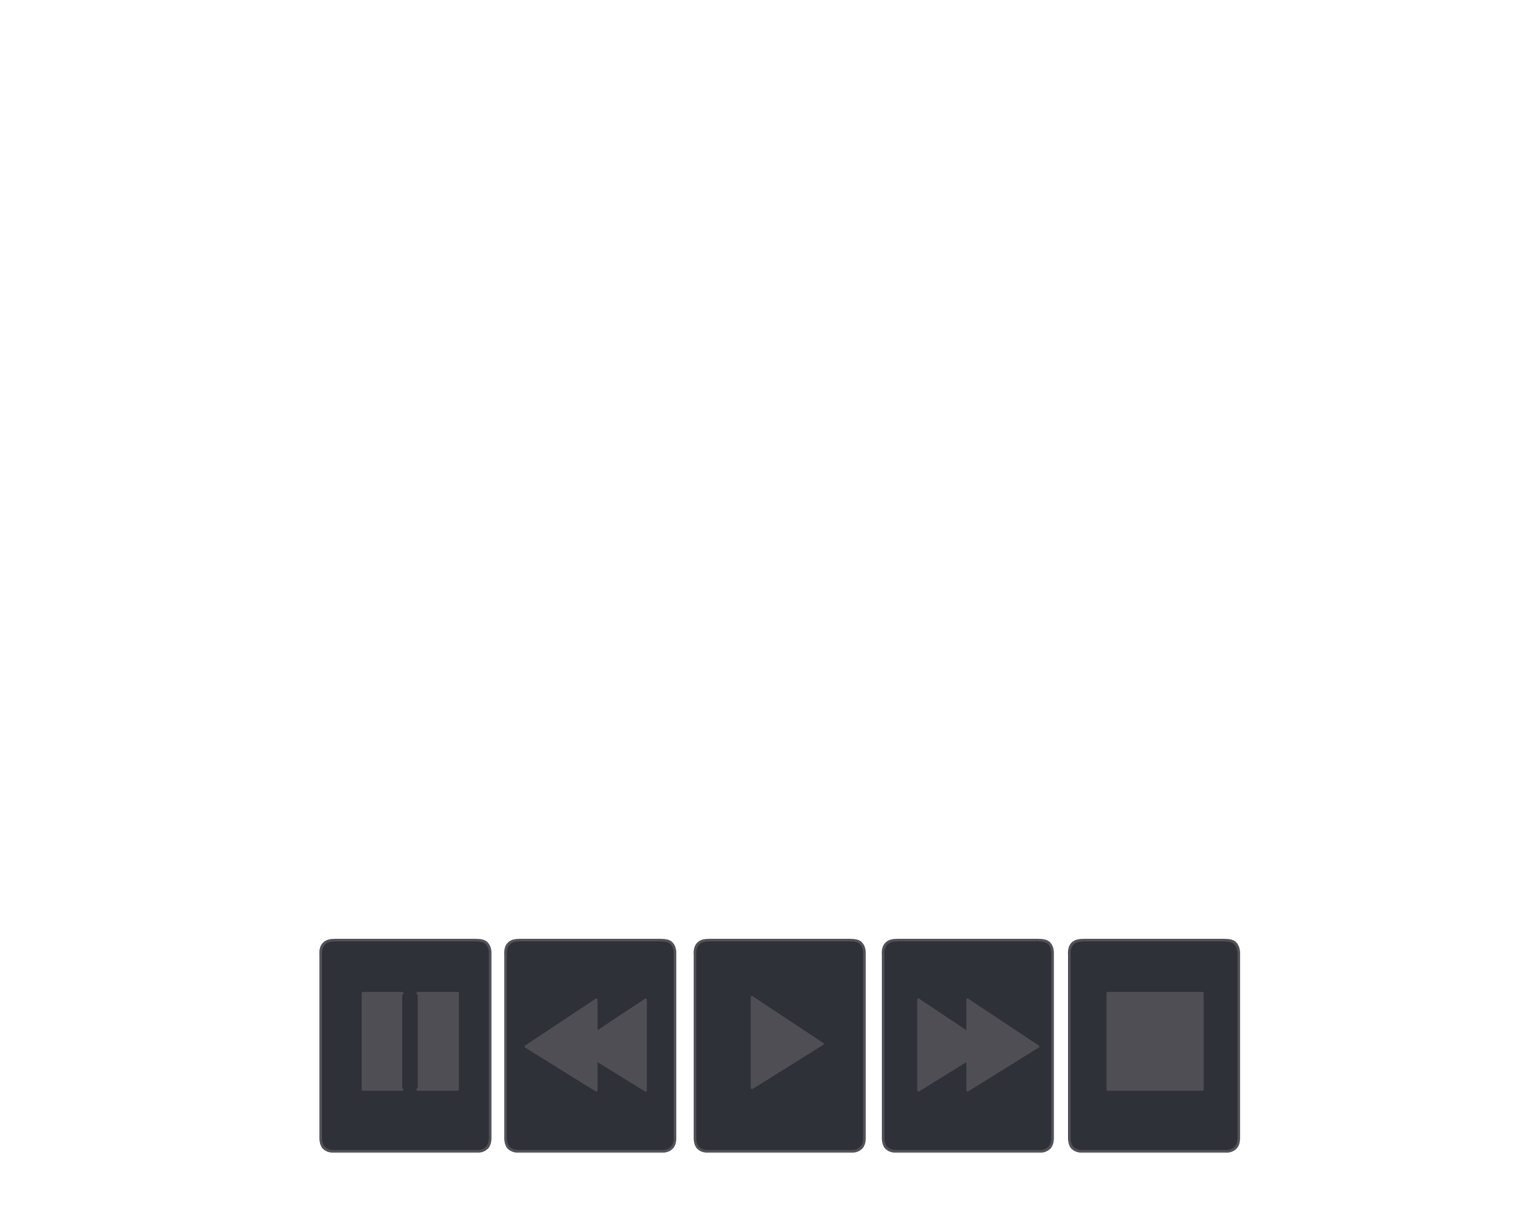
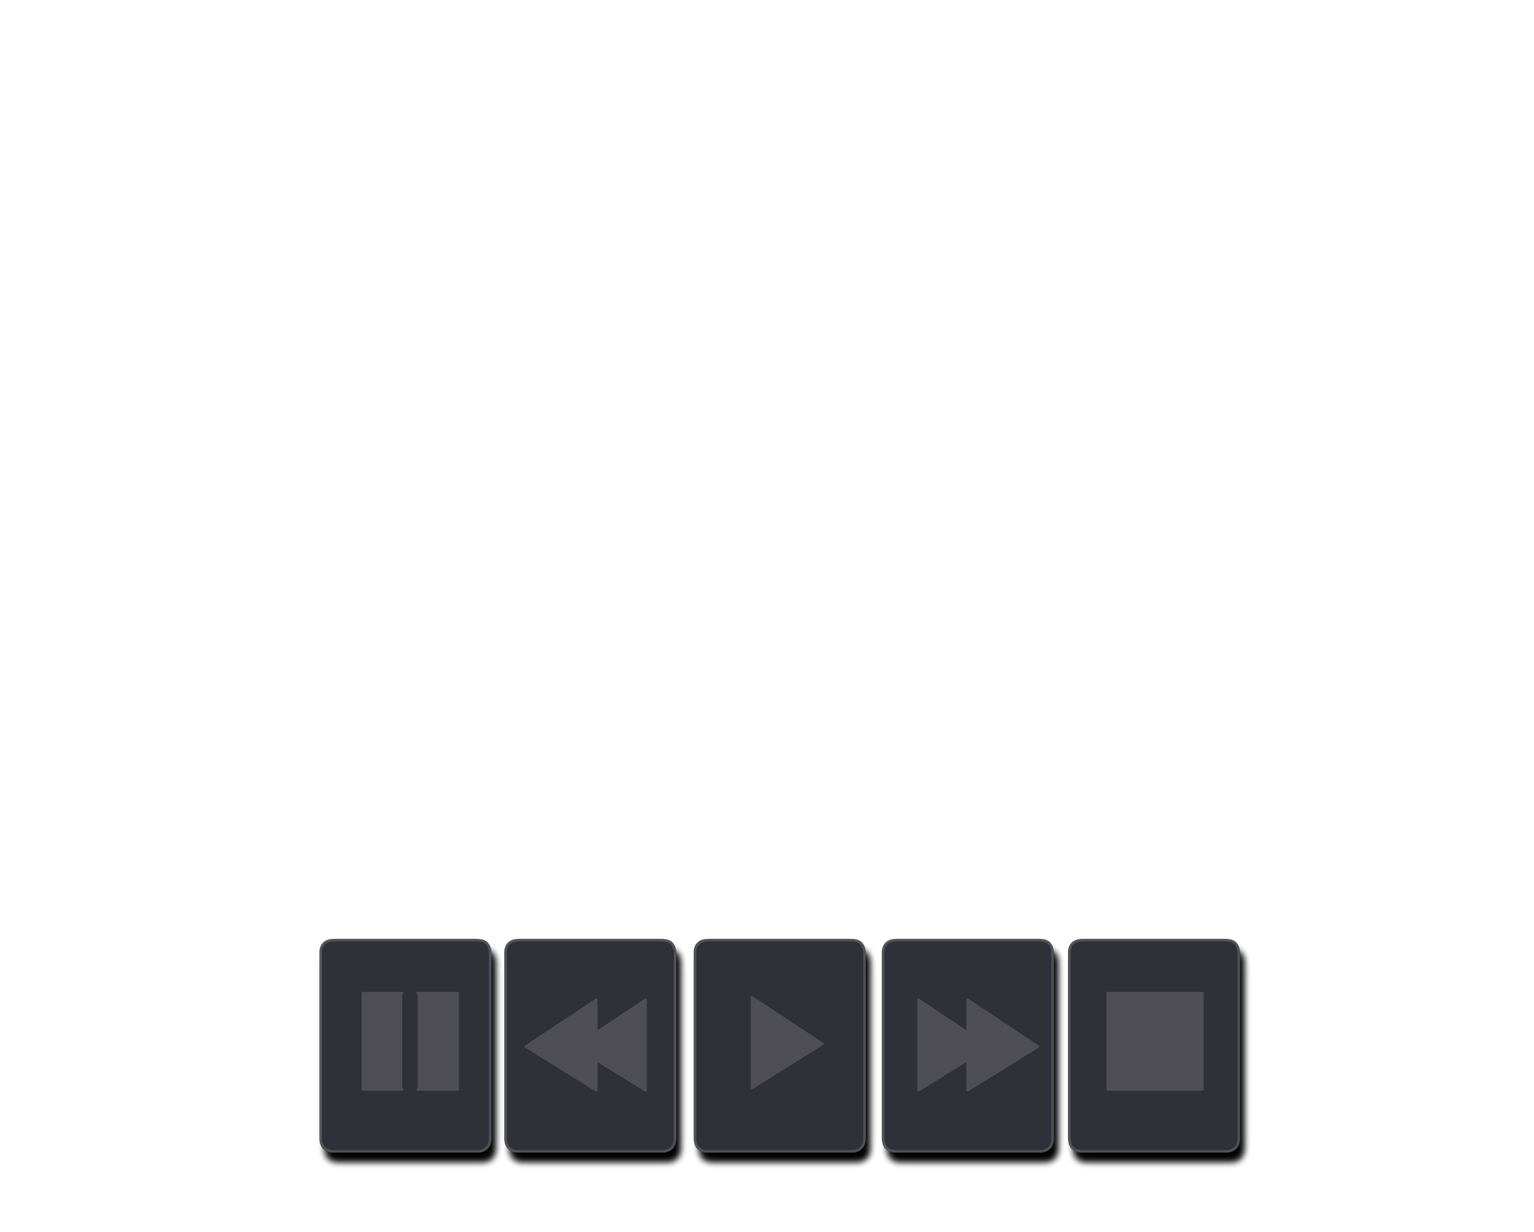
feat(player): swap in the new shadowed key caps and the new playlist base art
feat(player): paint each key from a padded layer so its baked shadow shows, same click areas
feat(playlist): replace the playlist base layer with the new artwork, aligned to the existing layers

Changed region(s): [[0.2145, 0.7711, 0.8272, 0.9562]]

diff --git a/app/src/renderer/src/views/CassettePlayer.css b/app/src/renderer/src/views/CassettePlayer.css
@@ -7,12 +7,14 @@ body { background: transparent; overflow: hidden; }
 .cp button { -webkit-app-region: no-drag; position: absolute; margin: 0; padding: 0; border: 0; font: inherit; color: inherit; cursor: pointer; }
 .cp button:focus-visible { outline: 2px solid rgba(255, 255, 255, 0.45); outline-offset: 1px; }
 
-.cp-btn { background-color: transparent; background-repeat: no-repeat; border-radius: 10px; touch-action: none; filter: drop-shadow(0 4px 3px rgba(0, 0, 0, 0.55)); transition: filter 80ms ease-out, transform 80ms ease-out; }
-.cp-btn:not(:disabled):hover { filter: drop-shadow(0 4px 3px rgba(0, 0, 0, 0.55)) brightness(1.12); }
-.cp-btn:not(:disabled):active, .cp-btn.pressed:not(:disabled), .cp-btn.latched { transform: translateY(3px); filter: drop-shadow(0 1px 1px rgba(0, 0, 0, 0.6)); }
-.cp-btn:not(:disabled):active:hover, .cp-btn.pressed:not(:disabled):hover, .cp-btn.latched:not(:disabled):hover { filter: drop-shadow(0 1px 1px rgba(0, 0, 0, 0.6)); }
-.cp-btn:disabled { cursor: default; filter: drop-shadow(0 4px 3px rgba(0, 0, 0, 0.55)) brightness(0.8); }
-.cp-btn.latched:disabled { filter: drop-shadow(0 1px 1px rgba(0, 0, 0, 0.6)); }
+.cp-btn { background: transparent; border-radius: 10px; touch-action: none; transition: filter 80ms ease-out, transform 80ms ease-out; }
+/* Key art (with baked shadow) is painted on a non-interactive layer padded right/bottom; the button rect stays the hit area. */
+.cp-btn::before { content: ''; position: absolute; top: 0; left: 0; right: calc(var(--pad-r) * -1); bottom: calc(var(--pad-b) * -1); pointer-events: none; background: var(--art) var(--pos) / 767px 616px no-repeat; }
+.cp-btn:not(:disabled):hover { filter: brightness(1.12); }
+.cp-btn:not(:disabled):active, .cp-btn.pressed:not(:disabled), .cp-btn.latched { transform: translateY(3px); }
+.cp-btn:not(:disabled):active:hover, .cp-btn.pressed:not(:disabled):hover, .cp-btn.latched:not(:disabled):hover { filter: none; }
+.cp-btn:disabled { cursor: default; filter: brightness(0.8); }
+.cp-btn.latched:disabled { filter: none; }
 
 .cp-title { position: absolute; box-sizing: border-box; padding: 0 8px; pointer-events: none; color: #7f2a3c; font-size: 19px; letter-spacing: 0.04em; text-transform: uppercase; white-space: nowrap; overflow: hidden; text-overflow: ellipsis; line-height: 30px; text-align: center; }
 .cp-title.empty { opacity: 0.55; }

diff --git a/app/src/renderer/src/views/CassettePlayer.tsx b/app/src/renderer/src/views/CassettePlayer.tsx
@@ -1,5 +1,5 @@
-import { useCallback, useEffect, useRef, useState } from 'react'
-import { BUTTONS, CASSETTE, CHROME, LABEL, LAYERS, REELS, WINDOW, type ButtonId, type LayerId, type Rect } from '@shared/layout'
+import { useCallback, useEffect, useRef, useState, type CSSProperties } from 'react'
+import { BUTTONS, BUTTON_SHADOW_PAD, CASSETTE, CHROME, LABEL, LAYERS, REELS, WINDOW, type ButtonId, type LayerId, type Rect } from '@shared/layout'
 import { pressPause, pressPlay, pressStop } from '../engine/commands'
 import { clearError } from '../engine/store'
 import { useDisplayPosition, useEngine } from '../engine/useEngine'
@@ -151,7 +151,7 @@ export default function CassettePlayer() {
           aria-pressed={id === 'rewind' || id === 'forward' ? !!pressed[id] : undefined}
           className={`cp-btn${pressed[id] ? ' pressed' : ''}${latched[id] ? ' latched' : ''}`}
           disabled={off[id]}
-          style={{ ...rectStyle(BUTTONS[id]), backgroundImage: `url(${layerUrl('bodyButtons')})`, backgroundSize: `${WINDOW.width}px ${WINDOW.height}px`, backgroundPosition: `${-BUTTONS[id].x}px ${-BUTTONS[id].y}px` }}
+          style={{ ...rectStyle(BUTTONS[id]), '--art': `url(${layerUrl('bodyButtons')})`, '--pos': `${-BUTTONS[id].x}px ${-BUTTONS[id].y}px`, '--pad-r': `${BUTTON_SHADOW_PAD.right}px`, '--pad-b': `${BUTTON_SHADOW_PAD.bottom}px` } as CSSProperties}
           {...buttonProps[id]}
         />
       ))}

diff --git a/app/src/shared/layout.ts b/app/src/shared/layout.ts
@@ -38,6 +38,9 @@ export const BUTTONS: Record<ButtonId, Rect> = {
   stop: { x: 532.5, y: 468, w: 89, h: 110 },
 }
 
+// Baked drop shadow of the key art extends this far (design px) past each BUTTONS rect (measured from body-buttons.png).
+export const BUTTON_SHADOW_PAD = { right: 5, bottom: 7 }
+
 export const CHROME: { minimize: Rect; close: Rect } = {
   minimize: { x: 719, y: 7, w: 19, h: 19 },
   close: { x: 741, y: 7, w: 19, h: 19 },

diff --git a/assets/ui/MANIFEST.md b/assets/ui/MANIFEST.md
@@ -14,7 +14,7 @@ Paint order bottom to top. "Anchor" is the top-left in window CSS px.
 | 4 | `png/cassette-reel.png` | 1172x684 | 90,85 | 586x342 | Both reels (hub centres in cassette px 173.5,164 and 422.5,164.5; clip r 36, visible r≈33) |
 | 5 | `png/body-top-cover.png` | 1534x1232 | 0,0 | 767x616 | Window bezel/glass, brand text "SUPER LX-RETRO", "HIGH QUALITY AUDIO", minimize/close boxes. Covers the cassette edges |
 | 6 | `png/body-bottom.png` | 1534x1232 | 0,0 | 767x616 | Lower panel, bolts, PAUSE/REWIND/PLAY/FORWARD/STOP text labels |
-| 7 | `png/body-buttons.png` | 1534x1232 | 0,0 | 767x616 | The five key caps with icons (no text labels) |
+| 7 | `png/body-buttons.png` | 1534x1232 | 0,0 | 767x616 | The five key caps with icons (no text labels), with baked drop shadow (extends ~5 px right, ~7 px bottom past the `BUTTONS` rects; see `BUTTON_SHADOW_PAD`) |
 
 ### How png/ was derived
 
@@ -42,7 +42,7 @@ Measured values in `layout.ts` come from the shipped PNGs: reels and button keys
 | `source/player-body-base.png` | 2334x1874 | Body layer 1 (shared body canvas) |
 | `source/player-body-top-cover-and-utility.png` | 2334x1874 | Body layer top cover |
 | `source/player-body-bottom-part-with-boltu.png` | 2334x1874 | Body layer bottom |
-| `source/player-body-buttons.png` | 2334x1874 | Body layer buttons |
+| `source/player-body-buttons.png` | 2334x1874 | Body layer buttons, with baked drop shadow ("player buttons with shadow") |
 | `source/cassette/audio-red-base.png` | 1783x1040 | Cassette layer base |
 | `source/cassette/audio-red-mid.png` | 1783x1040 | Cassette layer mid |
 | `source/cassette/audio-red-reel.png` | 1783x1040 | Cassette layer reels (both) |
@@ -57,7 +57,7 @@ Canvas 1874x1885 px at 2x, so the design size is 937x943 CSS px. Constants are i
 
 | File | What | Anchor (CSS px) |
 |------|------|-----------------|
-| `playlist/playlist-base.png` | Dark window frame and background (was "1st playlist base") | 0,0 937x943 |
+| `playlist/playlist-base.png` | Dark window frame and background. 1874x1885: `source/playlist-base.png` (1874x1874, new "1st playlist base") pasted at y=11 to line up with the other layers | 0,0 937x943 |
 | `playlist/playlist-paper.png` | Paper sheet laid over the cover, cover shows around its border (was "3rd paper like texture") | 0,0 937x943; paper bbox 70.5,91.5 781.5x790.5 |
 | `playlist/playlist-top.png` | Minimize and close buttons, status dots, resize grip (was "4th top layers") | 0,0 937x943; minimize 862,20 30x30; close 895.5,20 30x30 (the resize grip is baked in, no longer used) |
 | `playlist/default-cover.svg` | Our own placeholder cover (gradient, blobs, grain), used when an album has no cover. Square viewBox | `COVER` 57.5,81.5 810.5x811, drawn between base and paper |

diff --git a/docs/ASSETS_TODO.md b/docs/ASSETS_TODO.md
@@ -4,7 +4,7 @@ Missing or broken assets. Each item: what is missing, current workaround, what t
 
 1. **SVG layers are unusable duplicates.** `source/cassette/audio-red-{base,mid,reel}.svg` are byte-identical (36,383 B each), `source/player-body-base.svg` equals `source/player-body-top-cover-and-utility.svg` (136,900 B), and `source/cassette-player.svg` and `source/player-body-bottom-part-with-boltu.svg` are whole-composition exports. Workaround: the PNG layers are used. Provide: one SVG per layer containing only that layer (rules in AGENTS.md prefer SVG).
 2. **Both reels share one layer** (`cassette/audio-red-reel.png`). Workaround: the layer is separable: the renderer draws it twice, each copy clipped to a circle around one hub (`REELS`), and rotates each copy independently; reel centres and radii are measured in `layout.ts` (`REELS`). Provide: a separate graphic per reel (or one reel graphic, drawn twice), centred on its hub, plus the cassette without reels behind them.
-3. **No pressed or disabled button states.** One buttons sheet (`body-buttons.png`) holds the five keys. Workaround: CSS effects (translate, brightness, opacity) on slices at `BUTTONS` rects. Provide: each button in normal, pressed and disabled states, with icon.
+3. **No pressed or disabled button states.** One buttons sheet (`body-buttons.png`) holds the five keys. Workaround: CSS effects (translate, brightness) on the key art; the drop shadow is now baked into the sheet. Provide: each button in normal, pressed and disabled states, with icon.
 4. **Button text labels (PAUSE, REWIND, ...) are baked into `body-bottom.png`**, not the buttons layer, so they cannot be restyled or localised. Workaround: none needed for now. Provide: labels as a separate layer if they should change state.
 5. **No tape layer.** There is no wound-tape graphic on the reels, so the tape-amount animation (tape moving from left to right reel) is not possible. Workaround: skip it, or a CSS-drawn placeholder disc behind the reels if later required. Provide: tape discs (left and right) as separate layers, with a transparent hub.
 6. **Text slots are baked in.** The cassette label has no empty title area (the grey strip is part of `cassette-mid.png`), and there is no time display, so the track title and time are drawn by code over `LABEL.title` and `LABEL.time` (the time slot is a guess left of "HIGH QUALITY AUDIO"). Provide: confirmation of where the artist wants title and time, and the fonts used for the brand and label text.
